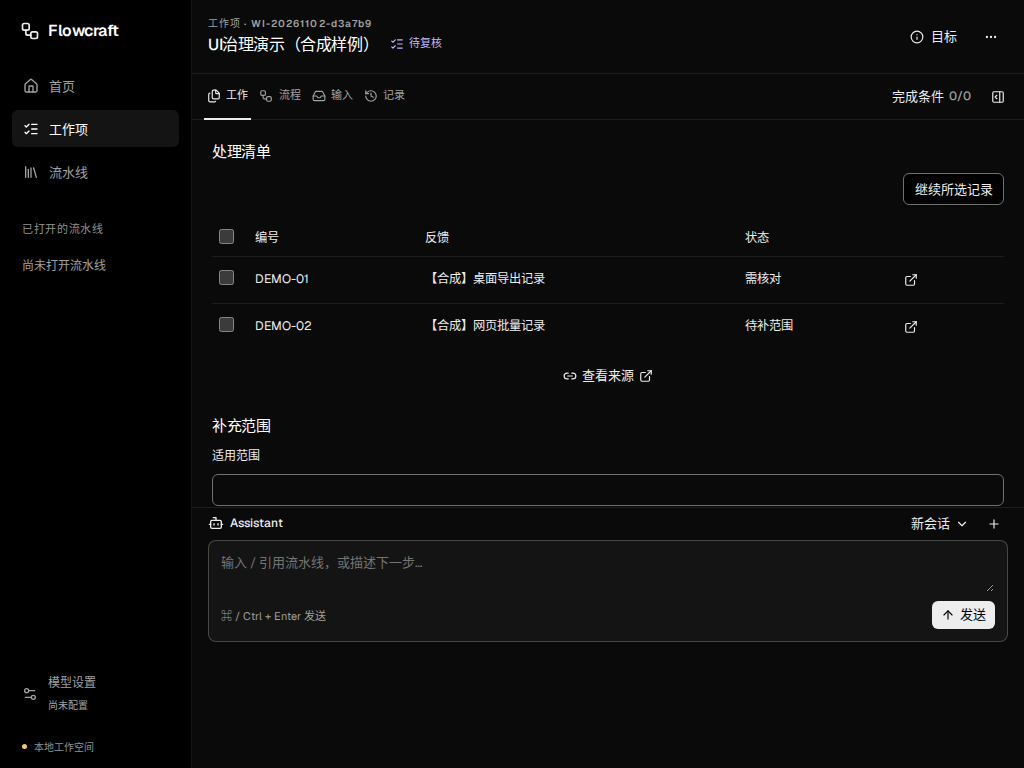
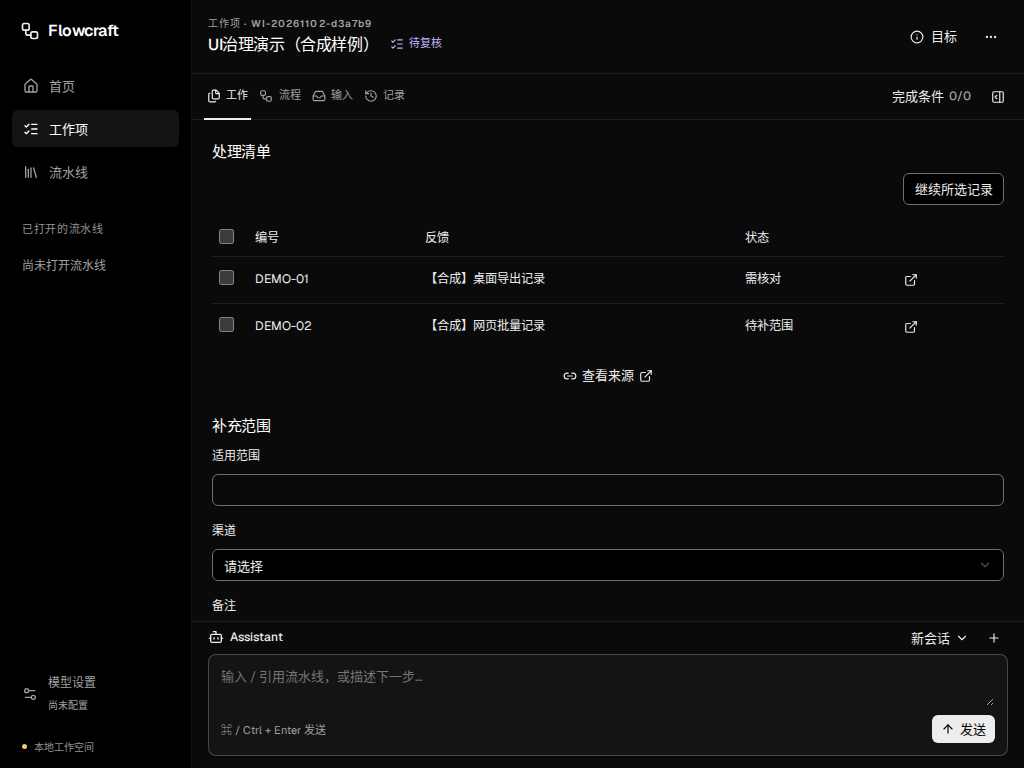
fix(ui): size collapsed composer dock to its content

diff --git a/tests/browser/style-governance.spec.ts b/tests/browser/style-governance.spec.ts
@@ -228,6 +228,70 @@ test('resizing preserves action reachability and user panel preference', async (
   await expect(page.locator('.context-panel[data-mode="side"]')).toBeVisible();
 });
 
+test('collapsed composer dock fits its content and preserves expanded panel intent', async ({
+  page,
+  request,
+}, info) => {
+  const ws = await seed(request);
+  await page.setViewportSize({ width: 1024, height: 768 });
+  await page.goto(`/items/${ws.item.id}?tab=results`);
+  const panel = page.getByRole('complementary', {
+    name: '工作项 Assistant',
+    exact: true,
+  });
+  const composer = panel.locator('.composer');
+  const bottomGap = async () => {
+    const dock = (await panel.boundingBox())!;
+    const content = (await composer.boundingBox())!;
+    return dock.y + dock.height - content.y - content.height;
+  };
+  await expect(composer).toBeVisible();
+  await expect.poll(bottomGap).toBeLessThanOrEqual(16);
+  await expect(panel).toHaveAttribute('data-preferred-mode', 'dock');
+  await page.screenshot({
+    path: info.outputPath('collapsed-composer-1024.png'),
+  });
+  const collapsedHeight = (await panel.boundingBox())!.height;
+  const save = page
+    .locator('[data-openui-renderer="official"]')
+    .getByRole('button', { name: '保存输入', exact: true });
+  const hit = () =>
+    save.evaluate((el) => {
+      const box = el.getBoundingClientRect();
+      return el.contains(
+        document.elementFromPoint(
+          box.x + box.width / 2,
+          box.y + box.height / 2,
+        ),
+      );
+    });
+  await save.scrollIntoViewIfNeeded();
+  await expect.poll(hit).toBe(true);
+  await page
+    .getByRole('button', { name: '展开工作项 Assistant', exact: true })
+    .click();
+  await expect(panel).toHaveAttribute('data-preferred-mode', 'side');
+  await expect(panel).toHaveAttribute('data-mode', 'dock');
+  await expect
+    .poll(async () => (await panel.boundingBox())!.height)
+    .toBeGreaterThan(collapsedHeight + 40);
+  expect((await panel.boundingBox())!.height).toBeLessThanOrEqual(300);
+  await save.scrollIntoViewIfNeeded();
+  await expect.poll(hit).toBe(true);
+  await page.setViewportSize({ width: 1440, height: 900 });
+  await expect(panel).toHaveAttribute('data-mode', 'side');
+  await page.setViewportSize({ width: 1024, height: 768 });
+  await expect(panel).toHaveAttribute('data-mode', 'dock');
+  await page
+    .getByRole('button', { name: '收起工作项 Assistant', exact: true })
+    .click();
+  await expect(panel).toHaveAttribute('data-preferred-mode', 'dock');
+  await expect.poll(bottomGap).toBeLessThanOrEqual(16);
+  await page.setViewportSize({ width: 1440, height: 900 });
+  await expect(panel).toHaveAttribute('data-mode', 'dock');
+  await expect.poll(bottomGap).toBeLessThanOrEqual(16);
+});
+
 for (const width of [1440, 1024]) {
   test(`task success and missing trigger return focus ${width}`, async ({
     page,

diff --git a/src/client/components/WorkspaceFrame.css b/src/client/components/WorkspaceFrame.css
@@ -197,11 +197,14 @@
   }
   .context-panel[data-mode='dock'] {
     width: auto;
-    height: min(34dvh, 300px);
+    height: auto;
     max-height: 45%;
     flex-shrink: 0;
     border-left: 0;
     border-top: 1px solid var(--line);
+  }
+  .context-panel[data-mode='dock'][data-preferred-mode='side'] {
+    height: min(34dvh, 300px);
   }
   .context-panel[data-mode='dock'] .panel-tabs {
     height: 32px;

diff --git a/src/client/components/WorkspaceFrame.tsx b/src/client/components/WorkspaceFrame.tsx
@@ -194,6 +194,7 @@ export function WorkspaceSidePanel({
       ref={panel}
       className="context-panel"
       data-mode={effectiveMode}
+      data-preferred-mode={mode}
       aria-label={label}
       style={effectiveMode === 'side' && width ? { width } : undefined}
     >

diff --git a/conductor/tracks/feature-frontend-style-governance_20261102/evidence/implementation/README.md b/conductor/tracks/feature-frontend-style-governance_20261102/evidence/implementation/README.md
@@ -42,11 +42,21 @@
 - material-visibility-red.txt：修正后的有效反例；明确回到flow且aria-selected=true后旧Dialog仍有1个。恢复可见性约束后的对应通过日志 material-visibility-green.txt。最初裸URL回退不保证隐藏inputs的测试前提错误已丢弃，不用作产品缺陷证据。
 - adjacent-55.txt：冻结产物上55条既有浏览器全部通过，产物SHA见adjacent-build-manifest.json；此轮早于最后的材料Portal与字段组细节修复，不声称它是最终产物全量重验。
 - modules-24.txt：24条client/navigation-actions/openui/canvas-layout/canvas-view-state模块回归通过。
-- final-contracts-and-navigation-22.txt：最终构建14条治理、2条方法引用、6条导航合计22/22通过，无更新golden；最后变更的直接影响路线已重跑。既有55条中8条重复，去重为69条不同浏览器用例，不把轮次累计为更多覆盖。
+- final-contracts-and-navigation-22.txt：上一检查点构建14条治理、2条方法引用、6条导航合计22/22通过，无更新golden；最后变更的直接影响路线已重跑。既有55条中8条重复，该轮去重为69条不同浏览器用例，不把轮次累计为更多覆盖；后续SG05复审新增1条，当前共70条不同用例。
 - final-typecheck.txt / final-build.txt / final-style-check.txt：最终类型、构建、守卫通过；构建仍提示既有bundle大小警告，未扩展为拆包优化。
 
-全部浏览器测试使用fixtures.ts创建的临时dataRoot、随机端口及独立--output，不接触4320/4321与用户模型。模型设置截图中的密码为未提交的合成字符串，取消/重开断言为空；没有保存密钥或复制models.toml。两尺寸工作区、任务、材料和设置截图已实际查看，新矩阵字段组左右与普通字段对齐。真实模型、用户业务数据、完整原型所有长尾路线与用户主观视觉确认未执行；69条测试也不表示所有行为均穷尽。
+全部浏览器测试使用fixtures.ts创建的临时dataRoot、随机端口及独立--output，不接触4320/4321与用户模型。模型设置截图中的密码为未提交的合成字符串，取消/重开断言为空；没有保存密钥或复制models.toml。两尺寸工作区、任务、材料和设置截图已实际查看，新矩阵字段组左右与普通字段对齐。真实模型、用户业务数据、完整原型所有长尾路线与用户主观视觉确认未执行；这些测试也不表示所有行为均穷尽。
 
 ## 持续预览
 
 [打开合成样例](http://10.134.94.200:4336/items/78abd2d8-cad5-42b5-9567-2d93938dd392)。独立worktree的`.flowcraft-preview-data/`持久保存预览数据和preview-server.log；监听PID1709160，pnpm启动PID1709113。完整backend+正式dist，0.0.0.0:4336；不占用4335或托管端口。preview-seed.json/preview-verification.json明确合成身份和真实纯函数运行completed；preview-*两尺寸工作表面/任务截图已实看，页面无运行时错误。未保存真实模型配置或自动调用模型。预览启动/数据说明见documentation.md。
+
+## SG05 父复审后的折叠面板补修
+
+父会话实际看图发现1024默认Composer下方126px空白，来自对所有effective dock固定高度。collapsed-composer-red.txt记录新增用例在改前的真实失败：panel底部减Composer底部=126.109375px，大于允许的正常16px外间距。
+
+WorkspaceSidePanel公开data-preferred-mode保存原意图；effective dock共享边界使用auto高度，只有preferred side（展开会话/Inspector因窄屏转停靠）使用min(34dvh,300px)的有界高度。没有新建业务布局层。preferred dock折叠时按内容定高，现1024实际面板147px、Composer底部12px正常margin；相比原面板261px释放114px给主区。
+
+collapsed-composer-affected-4.txt覆盖折叠/展开、两尺寸往返、已保存方法侧栏宽度/手动开关、主区动作scrollIntoView后实际命中及长目标内部滚动，4/4通过。collapsed-composer-contracts-15.txt为当前冻结构建15条治理用例全通过，无update-snapshots；既有导航8条采用上一检查点已通过结果，没有无目的重跑全部70。类型/构建/守卫/修改文件Prettier均通过，日志为collapsed-composer-*。
+
+现有4336后端直接提供新dist，未重启/触碰其它实例；新浏览器页面确认新data-preferred-mode、底部12px测量和0 pageerror。preview-1024/1440及任务截图已更新并实看；preview-verification.json记录当前测量值。之前55条广回归、24模块及22直接影响回归的历史轮次依旧有效，均不伪称在本次布局补修后全部重验。最后交付项仍待父会话最终review。

diff --git a/conductor/tracks/feature-frontend-style-governance_20261102/documentation.md b/conductor/tracks/feature-frontend-style-governance_20261102/documentation.md
@@ -85,3 +85,7 @@
 持续预览： http://10.134.94.200:4336/items/78abd2d8-cad5-42b5-9567-2d93938dd392 ，完整后端与正式dist在0.0.0.0:4336；监听进程1709160、启动pnpm进程1709113。持久数据及日志在本worktree `.flowcraft-preview-data/`（preview-server.log、preview-process.json、preview-seed.json）。启动命令：`HOST=0.0.0.0 FLOWCRAFT_API_PORT=4336 FLOWCRAFT_DATA_ROOT=$PWD/.flowcraft-preview-data pnpm preview`；保持运行供查看，4335及托管端口/服务未触碰。
 
 样例标题明确为“UI治理演示（合成样例）”，含2条合成材料及2行合成反馈，使用function/expression/aggregate/literal的真实运行（completed）并发布工作表面。它证明真实运行及UI展示接线，不声称模型或业务质量验收。没有models.toml/密钥/自动模型调用，没有复制用户数据。1440/1024实际打开表面与任务并Escape关闭，无pageerror，4张截图已实看并归档。预览可变业务状态不进入Git；归档只含合成seed说明、验证结果和截图。
+
+## SG05 最终看图补修
+
+父会话在1024真实预览发现默认折叠Composer dock底部约126px空白；新增反例改前失败后，WorkspaceSidePanel以公开data-preferred-mode区分折叠dock与窄屏展开side：折叠auto定高，展开side转dock才有界高度。新预览1024面板147px、底部12px正常margin，释放114px主内容；已实看完整两尺寸截图。当前15条治理全部通过且未更新golden；4条直接布局回归、类型/构建/守卫/Prettier通过。新dist已在本人4336预览生效，监听PID/URL/持久数据不变；未触碰4335或托管。完整证据见implementation/README.md的SG05补修段。当前不同浏览器用例总数70（55既有+15治理），分轮产物说明保留，不累加重复回归。

diff --git a/conductor/tracks/feature-frontend-style-governance_20261102/plan.md b/conductor/tracks/feature-frontend-style-governance_20261102/plan.md
@@ -67,3 +67,5 @@ Phase 1 治理实现提交：`6ebd59bdd34a85a83256a51a0ed6265cea7f83b4`。该提
 当前验证断点：Phase 2–4 已完成；Phase 5 类型/构建/静态检查、24 条模块回归、冻结构建55条既有浏览器路线均通过；最终产物再跑14条治理+8条直接受影响导航用例22/22通过，无更新golden。两尺寸截图及新版字段组矩阵已实看。证据口径、迁移处置和未测边界见 evidence/implementation/README.md。最后交付项保留执行中，待父会话独立review及持续预览交接。
 
 第二逻辑治理提交：`c3b52e3`。持续预览在独立4336已完成，合成数据纯函数运行completed；两尺寸真实预览截图与任务交接操作通过。最后交付项仅等待父会话独立review，不等待用户再次授权。
+
+SG05最终看图补修：默认折叠Composer的effective dock不再固定占34dvh，preferred dock按内容定高，preferred side缩窗仍有界。新增126px空白反例改前失败，改后4条布局影响回归和当前完整15条治理通过、无update-snapshots；1024新预览147px面板/12px底部已实看。最后交付项继续[~]，等待父会话复核。

diff --git a/src/client/components/ui/README.md b/src/client/components/ui/README.md
@@ -35,7 +35,7 @@ App.css、Assistant.css、NodeInspector.css、ModelSettings.css、Results.css、
 
 ## 页面与 OpenUI
 
-WorkspaceFrame 统一页头、导航、主区和共享侧栏。展开偏好和拖拽宽度保留；1279px以下物理停靠，1440并排，1024冷打开默认底部Composer，缩窗不会让side覆盖主要动作。业务数据和动作保留在features。
+WorkspaceFrame 统一页头、导航、主区和共享侧栏。展开偏好和拖拽宽度保留；1279px以下物理停靠，1440并排，1024冷打开默认底部Composer，按内容定高；data-preferred-mode保留展开意图，preferred side在窄屏effective dock使用有界高度，收起回preferred dock不保留空白。缩窗不会让side覆盖主要动作。业务数据和动作保留在features。
 
 OpenUIWorkspace.css 与正式 SDK 适配器共同定义：Workspace/View主区块24px，Section标题到内容12px，同组Stack16px，导航到内容16px。父容器拥有直接子项间距，内容无页面外 margin。Records/InputForm/Report复用现成表格/字段/产物；模型不写CSS补间距。横向组合由明确Stack声明，不按子组件类型猜测。
 
